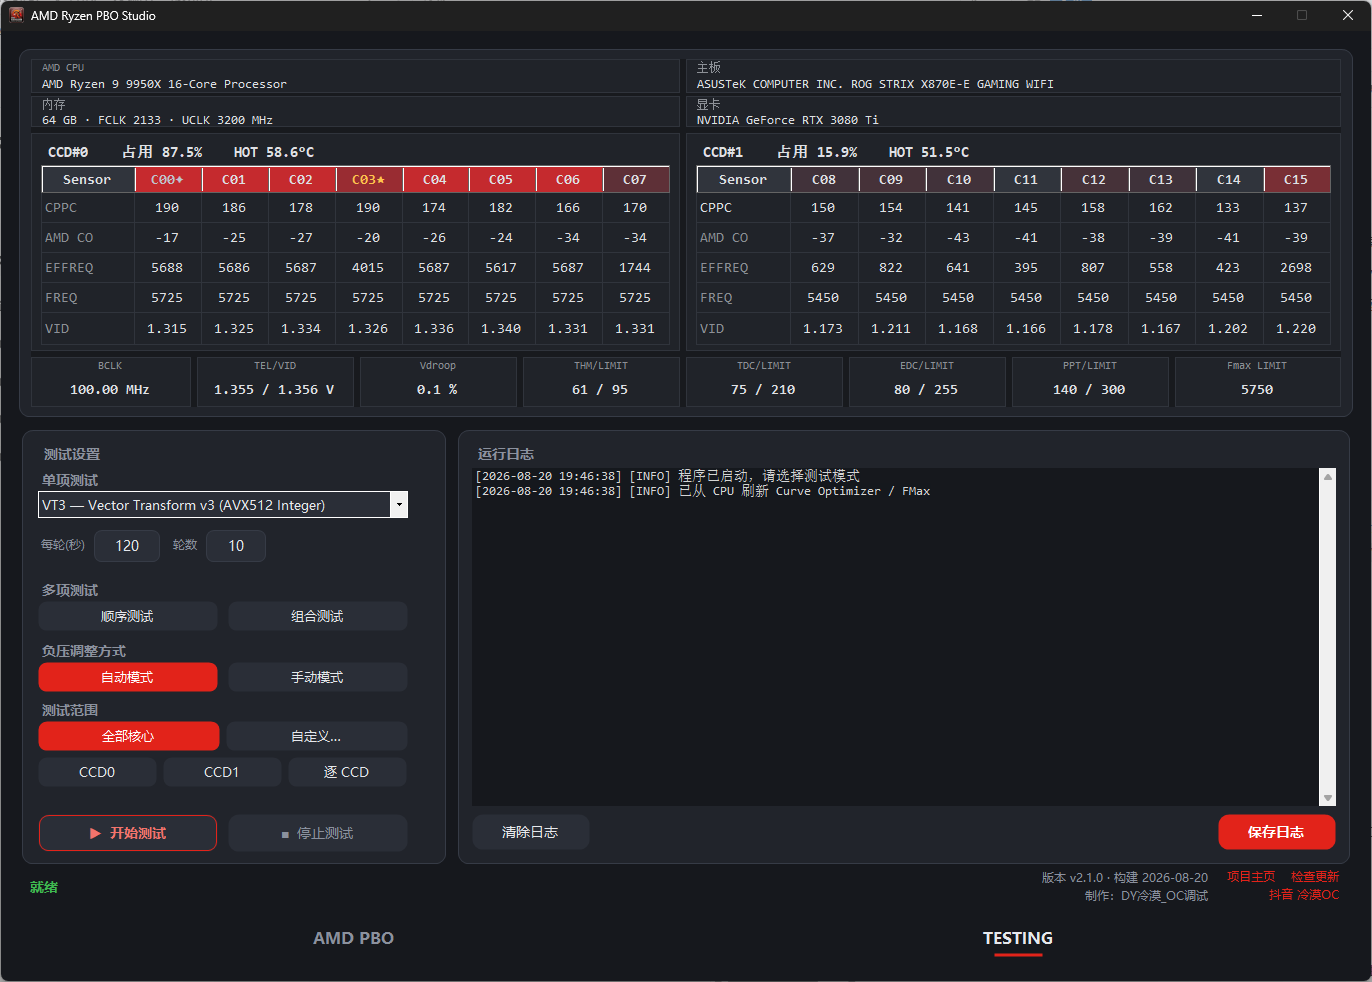
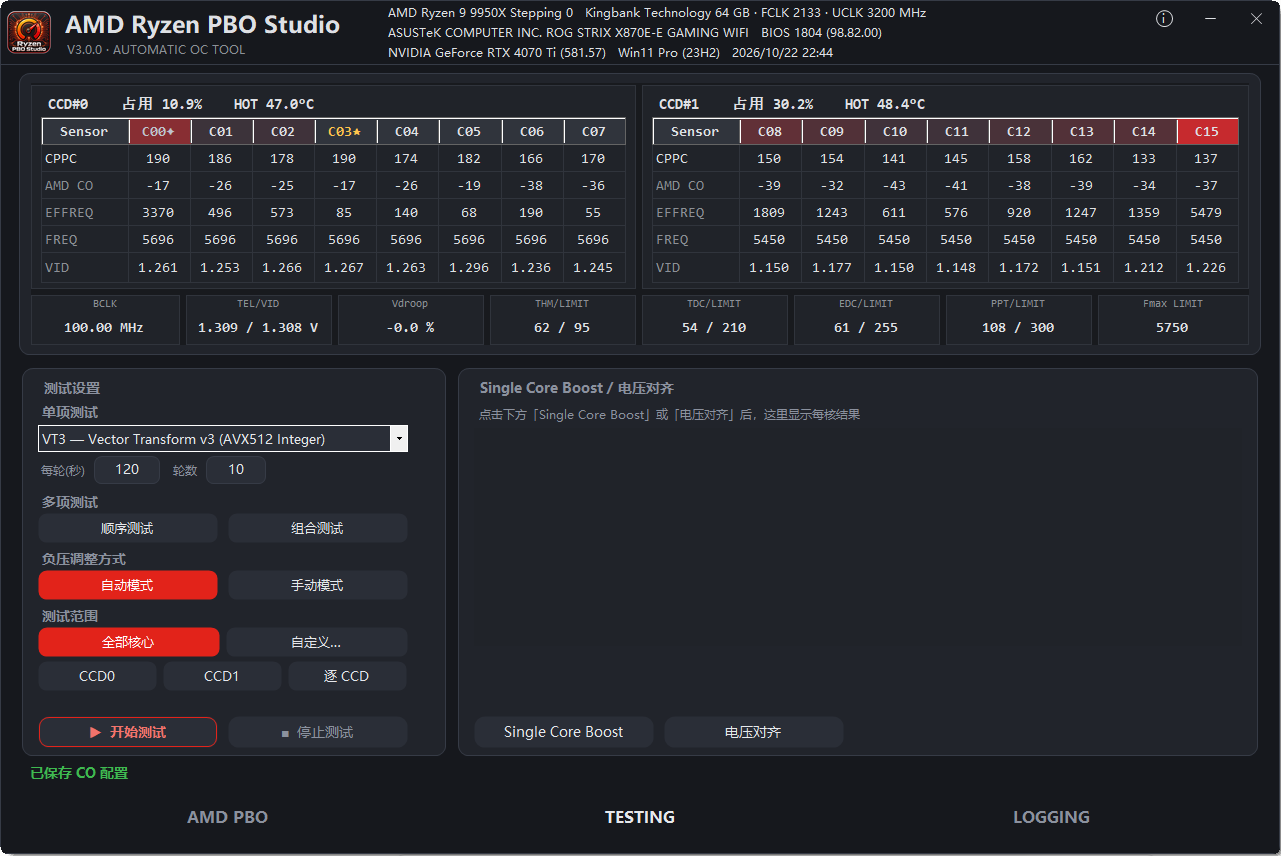
Update the README, screenshots and sponsor codes
Bring the README and its images in line with the upcoming release:
formal user-facing wording, new screenshots, and a Buy Me a Coffee
section with the Alipay and WeChat payment codes. No code changes.

diff --git a/README.md b/README.md
@@ -2,126 +2,129 @@
 
 English | [简体中文](README_zh_cn.md)
 
-A PBO tuning and Curve Optimizer undervolt testing tool for AMD Ryzen 5000 / 7000 / 9000 series processors.
+A PBO tuning and automated Curve Optimizer (CO) testing tool for AMD Ryzen 5000 / 7000 / 9000 series processors.
 
 ![Main page](pbo.png)
 
 ![Testing page](testing.png)
 
-> The program's interface is in Chinese.
+> The user interface is in Chinese.
 
 ## Features
 
 ### Live monitoring
 
-A per-core monitor stays at the top of the window, split by CCD:
+The title bar shows the CPU, motherboard and BIOS, memory, graphics card, and operating system. Below it, a
+per-core monitor panel remains visible at all times, grouped by CCD:
 
-- Per-core CPPC ranking (gold / silver core marks), CO value, effective frequency, frequency and VID
-- Average load and hotspot temperature of each CCD
-- BCLK (shown as BCLK/BCLK2 with asynchronous BCLK), TEL/VID, Vdroop, THM, TDC, EDC, PPT and Fmax
-
-Per-core frequency is taken from the first available source:
-
-1. HWiNFO readings, when HWiNFO is running with shared memory enabled
-2. The per-core frequency reported by the SMU in the PM Table, scaled by BCLK
-3. The HW P-state snapshot MSR `0xC0010293`, when the PM Table does not provide it
+- Per-core CPPC ranking (gold / silver core markers), CO value, effective frequency, frequency, and Core VID
+- Average utilization and hotspot temperature of each CCD
+- BCLK (shown as BCLK/BCLK2 under asynchronous clocking), TEL/VID, Vdroop, THM, TDC, EDC, PPT, and Fmax
 
 ### Manual tuning
 
-- **Curve Optimizer**: per-core offsets, with save and load
-- **Curve Shaper**: 5 frequency points × 3 temperature points
-- **PBO limits**: FMax, PPT, EDC and TDC applied in one click
+- **CO**: per-core offsets, with profile save and load
+- **Curve Shaper (CS)**: 5 frequency points × 3 temperature points
+- **PBO limits**: FMax, PPT, EDC, TDC, and PBO Scalar (1X–10X) applied in one step; options the CPU does not
+  support are disabled
+- **Apply at startup**: applies the saved CO / CS at each Windows logon (FMax, PPT, EDC, TDC, and Scalar are
+  not changed). Make sure these settings have passed a stress test before enabling it; if the system restarts
+  abnormally after they are applied, the next startup skips them automatically
 
-### Automatic undervolt testing
+### Single Core Boost and voltage alignment
 
-y-cruncher is used as the stress engine. Three test types are available:
+Both features are on the **TESTING** page and require a CPU with AVX2 / FMA support:
 
-| Type       | Description                                                  |
-| ---------- | ------------------------------------------------------------ |
-| Single     | One of VT3, BKT, SVT, BBP, SFTv4, SNT, FFTv4 or N63          |
-| Sequential | VT3 → BKT → SVT one after another, 20 / 10 / 10 rounds by default |
-| Combined   | VT3, BKT and SVT together, 10 rounds by default              |
+- **Single Core Boost**: measures the frequency, effective frequency, VID, and Core VID of each core under the
+  current CO. It only measures and changes no settings
+- **Voltage alignment**: uses the best core in each CCD as the reference and adjusts the CO of the other cores
+  so that all cores need similar voltage at the same frequency, then determines the single-core frequency
+  ceiling. The result is only entered into the CO editor and is not saved, and
+  **it must pass a stress test before use**
 
-The duration of each round is adjustable (120 seconds by default), and so is the round count of a single test.
+### Automated CO testing
+
+Stress testing uses y-cruncher, with three test modes:
+
+| Mode       | Description                                                                              |
+| ---------- | ---------------------------------------------------------------------------------------- |
+| Single     | One of VT3, BKT, SVT, BBP, SFTv4, SNT, FFTv4, N63, or YC018                              |
+| Sequential | Tests run one after another; by default VT3 → BKT → SVT for 20 / 10 / 10 rounds          |
+| Combined   | The selected tests rotate within every round; by default VT3, BKT, and SVT for 10 rounds |
+
+The tests, round counts, and round durations of every mode are customizable. YC018 is a memory-intensive Pi
+benchmark whose size is chosen automatically from installed memory; it always uses all cores.
 
 Test scope:
 
-| Scope      | Description                                        |
-| ---------- | -------------------------------------------------- |
-| All cores  | Stress all cores together                          |
-| Custom     | Pick the cores to stress                           |
-| Single CCD | Stress one CCD only (multi-CCD CPUs only)          |
-| Each CCD   | Run the full test on each CCD in turn (multi-CCD CPUs only) |
+| Scope      | Description                                                  |
+| ---------- | ------------------------------------------------------------ |
+| All cores  | All cores are stressed together                              |
+| Custom     | Only the selected physical cores are stressed                |
+| Single CCD | Only the selected CCD is stressed (multi-CCD CPUs only)      |
+| Each CCD   | The full test runs on each CCD in turn (multi-CCD CPUs only) |
 
-When only one CCD is stressed, it gets the whole power budget and runs at higher clocks than under an
-all-core load, so the result does not carry over directly to all-core use.
+Single-CCD results are for reference only; confirm final stability with an all-core test.
 
 Offset adjustment:
 
-- **Auto**: when y-cruncher reports an error, the failing core's offset is backed off by one step (+2)
-  and the whole round is rerun until it passes
-- **Manual**: on an error, the test only shows a notice and stops, and no setting is changed
+- **Auto**: when y-cruncher reports an error, the failing core's CO is backed off (+2 by default, with a
+  customizable step) and the test is rerun until it passes
+- **Manual**: an error only displays a notice and stops the test; no settings are changed
 
 ### Crash recovery
 
-Every offset set is written to disk before it is applied to the CPU. If the system freezes or loses
-power during a test, reopen the program and click Start: it reads the offsets in use before the crash,
-backs every core off by one step, and continues from where it stopped.
-
-If you applied CO values by hand after the crash, the test continues with your values and does not back off.
-
-### Online update
-
-New versions on GitHub are checked at startup, or manually from the bottom-right corner of the TESTING
-page. If GitHub is unreachable, several download mirrors are tried in turn. Updates never touch
-`logs\` or `profiles\`.
+If the system freezes or loses power during a test, the program starts automatically after the restart,
+backs off the CO, and resumes the unfinished test; you can cancel at any time. For fully unattended
+operation, enable automatic logon in Windows.
 
 ## Requirements
 
-| Item      | Requirement                                                                |
-| --------- | -------------------------------------------------------------------------- |
-| CPU       | AMD Ryzen 5000 / 7000 / 9000 series                                        |
-| OS        | Windows 10 / 11 x64                                                        |
-| Runtime   | [.NET 8 Desktop Runtime](https://dotnet.microsoft.com/download/dotnet/8.0) |
-| Driver    | [PawnIO](https://pawnio.eu), required to start                             |
-| Privilege | Administrator                                                              |
+| Item      | Requirement                                                                   |
+| --------- | ----------------------------------------------------------------------------- |
+| CPU       | AMD Ryzen 5000 / 7000 / 9000 series                                           |
+| OS        | Windows 10 / 11 x64                                                           |
+| Runtime   | [.NET 8 Desktop Runtime](https://dotnet.microsoft.com/download/dotnet/8.0)    |
+| Driver    | [PawnIO](https://pawnio.eu) (required; the program does not start without it) |
+| Privilege | Administrator                                                                 |
 
 Feature support by generation:
 
-| Feature           | 5000 series              | 7000 series | 9000 series |
-| ----------------- | ------------------------ | ----------- | ----------- |
-| Curve Optimizer   | Yes                      | Yes         | Yes         |
-| Curve Shaper      | No                       | No          | Yes         |
-| PPT / EDC / TDC   | Yes                      | Yes         | Yes         |
-| FMax              | No                       | Yes         | Yes         |
-| CPPC core ranking | Needs CPPC on in BIOS    | Yes         | Yes         |
+| Feature           | 5000 series                   | 7000 series | 9000 series |
+| ----------------- | ----------------------------- | ----------- | ----------- |
+| CO                | Yes                           | Yes         | Yes         |
+| CS                | No                            | No          | Yes         |
+| PPT / EDC / TDC   | Yes                           | Yes         | Yes         |
+| FMax              | No                            | Yes         | Yes         |
+| CPPC core ranking | Requires CPPC enabled in BIOS | Yes         | Yes         |
 
 ## Usage
 
 1. Download `-full.zip` (includes y-cruncher) from [Releases](https://github.com/lengmo23/RyzenPboStudio/releases)
-   and extract it anywhere. `-update.zip` is for the in-app updater and does not include y-cruncher,
-   so do not use it for a first install
+   and extract it to any folder. `-update.zip` is used by the in-app updater and does not include y-cruncher;
+   do not use it for a first-time installation
 2. Run `AMD Ryzen PBO Studio.exe` as administrator
-3. On the **AMD PBO** page, check that the monitor shows valid readings (per-core frequency and CO values)
-4. On the **TESTING** page, choose the test type and scope, then click Start
-5. When every test passes, the final offsets are written to `profiles\final_offsets.txt`
+3. On the **AMD PBO** page, confirm that the monitor shows valid readings for per-core frequency and CO values
+4. On the **TESTING** page, choose the test mode and scope, then click Start
+5. When all tests pass, the run log lists the CO and CS values that passed, and the final offsets are
+   also written to `profiles\final_offsets.txt`
 
-The program creates two folders next to the EXE:
+The program creates two folders next to its executable:
 
-- `logs\`: y-cruncher logs for each run, and run logs you export manually
-- `profiles\`: offset history, recovery state, CO / Curve Shaper profiles and calibration data
+- `logs\`: the run log of each launch and the log of each y-cruncher run
+- `profiles\`: CO history, recovery state, CO / CS profiles, and calibration data
 
 ## Warning
 
-PBO and undervolting are overclocking. Too large an offset can cause calculation errors, freezes, blue
-screens or reboots, and you may lose unsaved work. Running in an unstable state for a long time can
-damage hardware and may affect your warranty.
+PBO and CO tuning are forms of overclocking, and both the CO and CS settings affect system stability. Improper
+settings can cause calculation errors, freezes, blue screens, or reboots, and may result in the loss of unsaved
+data. Running in an unstable state for extended periods can damage hardware and may affect your warranty.
+**Save your work before testing, and do not use the computer while a test is running.**
 
 This program is distributed under the GNU General Public License v3.0 (GPL-3.0) **WITHOUT ANY WARRANTY**,
 without even the implied warranty of merchantability or fitness for a particular purpose. The author
 accepts no liability for any data loss, hardware damage, or other direct or indirect damages arising
-from its use; you use it entirely at your own risk. Save and close all work in progress before running
-a stress test.
+from its use; you use it entirely at your own risk.
 
 ## Building from source
 
@@ -129,8 +132,9 @@ a stress test.
 dotnet publish .\RyzenPboStudio\RyzenPboStudio.csproj -c Release -r win-x64 --self-contained false -p:DebugType=None -p:DebugSymbols=false -o .\bin
 ```
 
-The output goes to `bin\`, and the whole folder can be distributed. If `y-cruncher v0.8.7.9547b\`
-exists in the repository root, the build copies it to `bin\tools\y-cruncher\`; otherwise this step is skipped.
+The build output is written to `bin\`, and the entire folder can be distributed as is. If
+`y-cruncher v0.8.7.9547b\` exists in the repository root, the build copies it to `bin\tools\y-cruncher\`;
+otherwise this step is skipped.
 
 ## Author
 
@@ -138,17 +142,34 @@ exists in the repository root, the build copies it to `bin\tools\y-cruncher\`; o
 
 Copyright © 2026 [@lengmo23](https://github.com/lengmo23)
 
+## Buy Me a Coffee
+
+AMD Ryzen PBO Studio is an open-source tool I develop independently in my spare time, and every feature has
+gone through countless rounds of refinement. If it has saved you time on tuning or helped you get more
+performance out of your PC, you are welcome to buy me a coffee! Every contribution helps me keep maintaining
+and improving the project, and helps more enthusiasts get a better tuning tool.
+
+Sponsorship is entirely voluntary and does not affect any feature. The same payment codes are also available
+from the coffee-cup button in the program's title bar.
+
+<p align="center">
+  <img src="Alipay.png" alt="Alipay" height="400">
+  <img src="Wechat.png" alt="WeChat Pay" height="400">
+</p>
+
 ## License
 
-This project is released under the [GNU General Public License v3.0](LICENSE). It statically links
-ZenStates-Core, which is GPL-3.0, so the project as a whole must also be GPL-3.0.
+This project is released under the [GNU General Public License v3.0](LICENSE). Because it statically links
+ZenStates-Core, which is also licensed under GPL-3.0, the project as a whole must be distributed under GPL-3.0.
 
 ## Third-party components
 
-- [ZenStates-Core](https://github.com/irusanov/ZenStates-Core) (GPL-3.0): SMU access layer; all CO,
-  Curve Shaper and PBO reads and writes go through it
-- [SMUDebugTool](https://github.com/irusanov/SMUDebugTool) (GPL-3.0): reference for SMU commands and PM Table offsets
-- [ryzen-smu-cli](https://github.com/rawhide-kobayashi/ryzen-smu-cli) (GPL-3.0): source of `inpoutx64.dll`
-- [y-cruncher](https://www.numberworld.org/y-cruncher/): stress engine, copyright Alexander J. Yee
+- [ZenStates-Core](https://github.com/irusanov/ZenStates-Core) (GPL-3.0): Ryzen SMU access library providing
+  read and write interfaces for CO, CS, and PBO parameters
+- [SMUDebugTool](https://github.com/irusanov/SMUDebugTool) (GPL-3.0): reference implementation for SMU command
+  definitions and PM Table layouts
+- [ryzen-smu-cli](https://github.com/rawhide-kobayashi/ryzen-smu-cli) (GPL-3.0): provides the `inpoutx64.dll`
+  hardware access component
+- [y-cruncher](https://www.numberworld.org/y-cruncher/): stress test engine, copyright Alexander J. Yee
 
 See [THIRD-PARTY-NOTICES.txt](THIRD-PARTY-NOTICES.txt) for the full notices.
